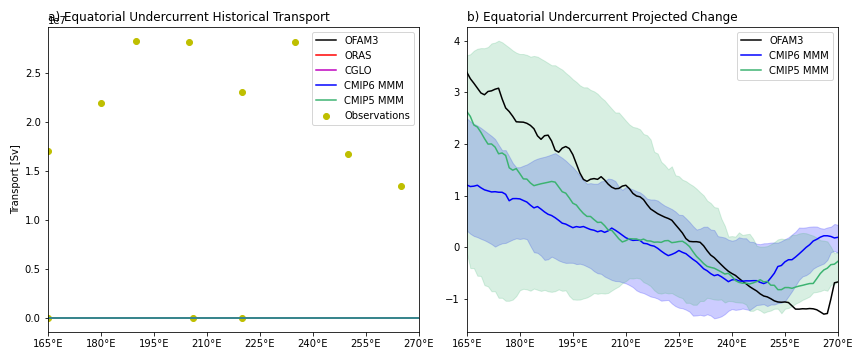
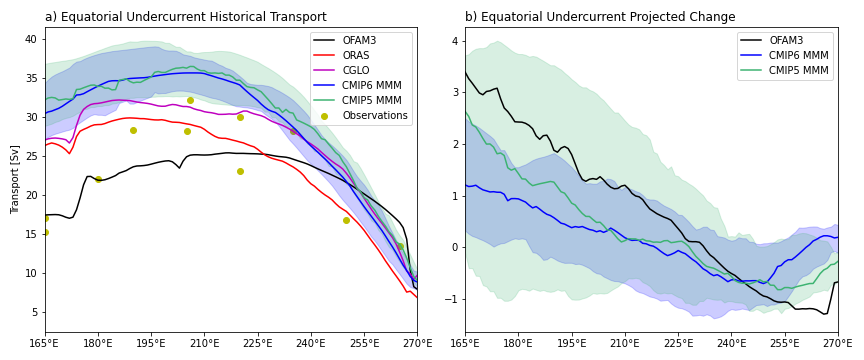
Updated CMIP_EUC

diff --git a/scripts/cmip_euc_transport.py b/scripts/cmip_euc_transport.py
@@ -37,13 +37,14 @@ from cmip_fncs import ofam_euc_transport_sum, cmip_euc_transport_sum, cmipMMM, r
 warnings.filterwarnings(action='ignore', message='Mean of empty slice')
 
 obs = johnson_obs_euc()
-obs, obsx = obs.values, obs.lon.values
+obs, obsx = obs.values / 1e6, obs.lon.values
 obs = np.append(obs, [16.6, 26.2, 15.3, 32.2, 30])
 obsx = np.append(obsx, [149, 153, 165, 206, 220])
 cl = ['k', 'b', 'mediumseagreen']
 lbs = ['OFAM3', 'CMIP6 MMM', 'CMIP5 MMM']
 net = False
 lon = np.arange(165, 271)
+xstr = 'N25-350' if net else 'E25-350'
 de_oras = reanalysis_euc('uo_oras', lon, net=net).mean('time') / 1e6
 de_cglo = reanalysis_euc('uo_cglo', lon, net=net).mean('time') / 1e6
 
@@ -102,7 +103,7 @@ def plot_cmip_euc_transport(de, de6, de5, lon):
     ax.set_xlim(lon[0], lon[-1])
     ax.legend()
     plt.tight_layout()
-    plt.savefig(cfg.fig/'cmip/EUC_transport_E25-350.png')
+    plt.savefig(cfg.fig/'cmip/EUC_transport_{}.png'.format(xstr))
     plt.show()
     plt.clf()
     plt.close()
@@ -129,7 +130,7 @@ def plot_cmip_euc_scatter(de, de6, de5, lon):
         if i % 2 != 0:
             ax[i].legend()
     plt.tight_layout()
-    plt.savefig(cfg.fig/'cmip/EUC_transport_scatter_E25-350.png')
+    plt.savefig(cfg.fig/'cmip/EUC_transport_scatter_{}.png'.format(xstr))
 
 
 def plot_cmip_euc_scatter_markers(de, de6, de5, lon):
@@ -152,9 +153,7 @@ def plot_cmip_euc_scatter_markers(de, de6, de5, lon):
         ax[i].set_ylabel('Projected change [Sv]')
         if i >= 2:
             ax[i].set_xlabel('Historical transport [Sv]')
-    plt.savefig(cfg.fig/'cmip/EUC_transport_scatter_markers_E25-350.png', bbox_inches='tight')
-
-
+    plt.savefig(cfg.fig/'cmip/EUC_transport_scatter_markers_{}.png'.format(xstr), bbox_inches='tight')
 
 
 lat, depth = [-2.6, 2.6], [25, 350]
